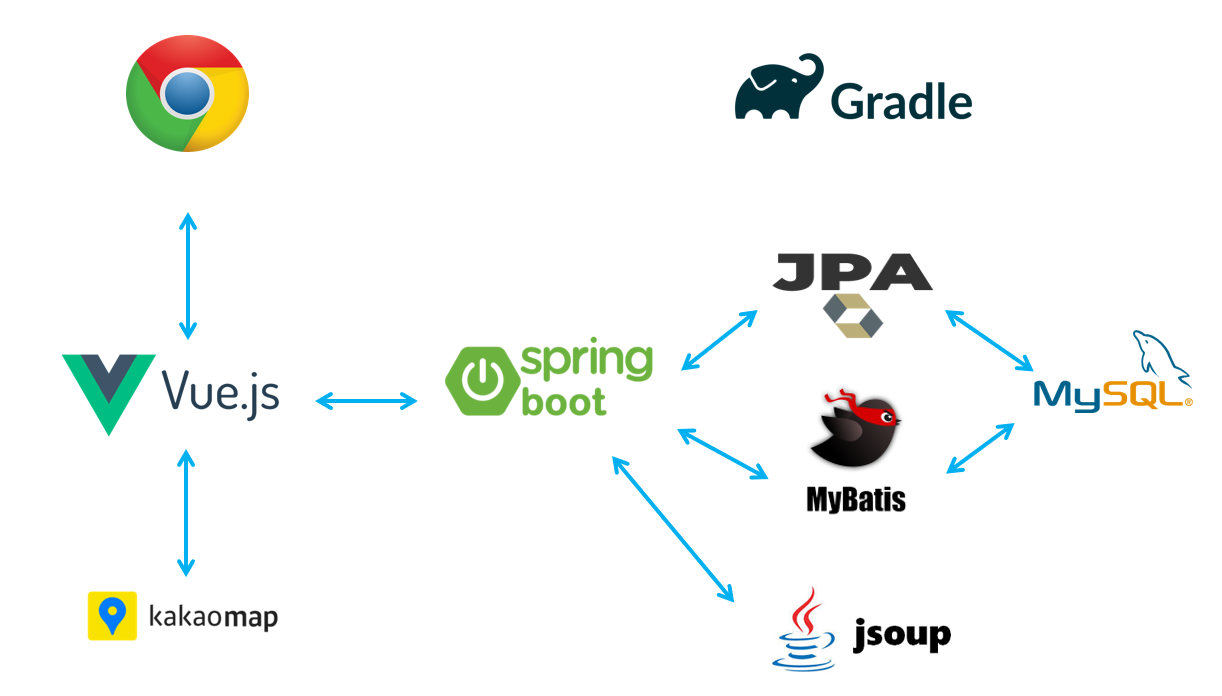
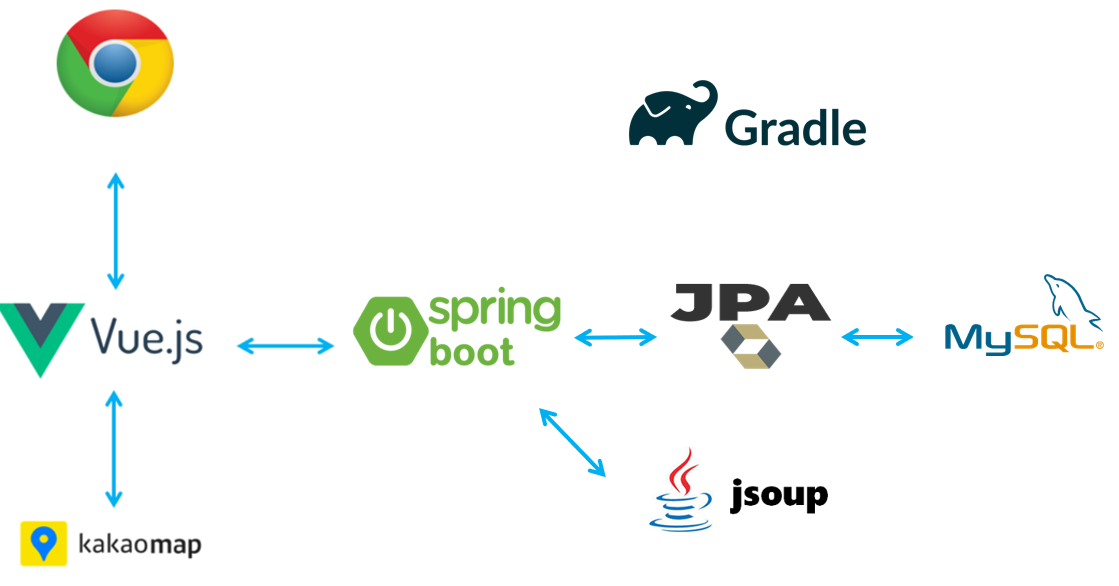
Docs : 아키텍처 수정 및 개발 팀 소개 부분 수정

diff --git a/README.md b/README.md
@@ -27,6 +27,12 @@
 
 <br />
 
+[**🔗 '오늘의 부동산' Back-end 저장소로 바로가기 Click !**](https://github.com/today-real-estate/today-real-estate_back-end.git) 👈
+
+> 새 창 열기 방법 : CTRL+click (on Windows and Linux) | CMD+click (on MacOS)
+
+<br />
+
 <div id="2"></div>
 
 ## 🛠 기술 스택
@@ -51,9 +57,9 @@
 | :--------------------------------------------------------------------------------------------------------------------------: | :-----------------------------------------------------------------------------------------------------------------------------------------------------------------------------------: | :-----------------------------------------------------------------------------------------------------------------------------: |
 |                                                             Java                                                             |                                                                                         Jsoup                                                                                         |                                                           Spring boot                                                           |
 
-| <img src="https://media.vlpt.us/images/wavvy1022/post/d05e49ea-341a-4e6a-80db-ff322533464a/jpa.png" alt="JPA" width="50px" height="50px" /> | <img src="https://i.pinimg.com/originals/0b/11/2c/0b112c6a99631dd3bd98fa9fc91f51f1.png" alt="MyBatis" width="50px" height="50px" /> |
-| :-----------------------------------------------------------------------------------------------------------------------------------------: | :---------------------------------------------------------------------------------------------------------------------------------: |
-|                                                                     JPA                                                                     |                                                               MyBatis                                                               |
+| <img src="https://media.vlpt.us/images/wavvy1022/post/d05e49ea-341a-4e6a-80db-ff322533464a/jpa.png" alt="JPA" width="50px" height="50px" /> |
+| :-----------------------------------------------------------------------------------------------------------------------------------------: |
+|                                                                     JPA                                                                     |
 
 | <img src="https://profilinator.rishav.dev/skills-assets/mysql-original-wordmark.svg" alt="MySQL" width="50px" height="50px" /> |
 | :----------------------------------------------------------------------------------------------------------------------------: |
@@ -77,6 +83,7 @@
 | 최저가 · 최고가 아파트 매매 정보 제공 서비스 |                                                           검색한 지역별 아파트 목록에서의 최저가 · 최고가 매매 정보를 제공합니다.                                                           |
 |      선택한 아파트의 로드뷰 제공 서비스      |                                       선택한 아파트 주변의 카카오 로드뷰를 제공하여 사용자가 아파트 주변의 환경을 확인할 수 있는 서비스를 제공합니다.                                       |
 |        주변 편의시설 정보 제공 서비스        |                                                              은행 · 마트 · 약국 · 주유소 · 카페 · 편의점 정보들을 제공합니다.                                                               |
+|               관심목록 서비스                |                                                  관심목록 등록을 통해 등록한 아파트 매물을 관심목록 페이지에서 한 번에 확인할 수 있습니다.                                                  |
 |               추천 매물 서비스               |                                  랜덤으로 아파트 매물을 추천합니다. (로그인 전)<br />사용자의 최근 검색어를 바탕으로 아파트 매물을 추천합니다. (로그인 후)                                  |
 |             1대1 문의하기 서비스             | 고객센터에 1대1 문의를 할 수 있는 서비스입니다. (수정 및 삭제가 가능합니다.)<br />관리자 아이디로 로그인 시 모든 사용자들의 1대1 문의를 확인할 수 있으며 답글을 남기거나 삭제가 가능합니다. |
 |        오늘의 부동산 뉴스 제공 서비스        |                                                  실시간 네이버 부동산 뉴스 페이지 크롤링을 통해 당일 부동산 뉴스를 사용자에게 제공합니다.                                                   |
@@ -115,6 +122,8 @@
 |                        로그인                        |
 | :--------------------------------------------------: |
 | <img src="./readme_assets/login.gif" alt="로그인" /> |
+
+> 아이디 저장 기능을 제공합니다.
 
 |                                  시 · 구 · 동 옵션 선택을 통한 아파트 매매 정보 검색                                  |
 | :-------------------------------------------------------------------------------------------------------------------: |
@@ -217,10 +226,10 @@
 
 <br />
 
-|  이름  |   역할    |                                                                                                                                                              개발 내용                                                                                                                                                               |
-| :----: | :-------: | :----------------------------------------------------------------------------------------------------------------------------------------------------------------------------------------------------------------------------------------------------------------------------------------------------------------------------------: |
-| 박정환 | Front-end | 지역별 아파트 매매 정보 검색 서비스 개발<br />아파트 상세 정보 제공 서비스 개발<br />최저가 · 최고가 정보 제공 서비스 개발<br />주변 편의시설 정보 제공 서비스 개발<br />추천 매물 서비스 개발<br />1대1 문의하기 서비스<br />오늘의 부동산 뉴스 제공 서비스 개발<br />로그인 및 회원가입 서비스 개발<br />회원정보 수정 서비스 개발 |
-| 진형준 | Back-end  |                                                                                                                                                                 ...                                                                                                                                                                  |
+|  이름  |   역할    |                                                                                                                                                                           개발 내용                                                                                                                                                                            |
+| :----: | :-------: | :------------------------------------------------------------------------------------------------------------------------------------------------------------------------------------------------------------------------------------------------------------------------------------------------------------------------------------------------------------: |
+| 박정환 | Front-end | 지역별 아파트 매매 정보 검색 서비스 개발<br />아파트 상세 정보 제공 서비스 개발<br />최저가 · 최고가 정보 제공 서비스 개발<br />주변 편의시설 정보 제공 서비스 개발<br />추천 매물 서비스 개발<br />관심목록 서비스 개발<br />1대1 문의하기 서비스<br />오늘의 부동산 뉴스 제공 서비스 개발<br />로그인 및 회원가입 서비스 개발<br />회원정보 수정 서비스 개발 |
+| 진형준 | Back-end  |                                                  지역별 아파트 매매 정보 검색 서비스 도메인 개발<br />추천 매물 서비스 도메인 개발<br />관심목록 서비스 도메인 개발<br />1대1 문의 서비스 도메인 개발<br />회원 관련 도메인 개발<br />관심목록 서비스 도메인 개발<br />오늘의 부동산 뉴스 크롤링<br />DB 설계                                                  |
 
 <br />
 
@@ -277,3 +286,5 @@ $ git clone https://github.com/today-real-estate/today-real-estate_back-end.git
 ```bash
 $ cd today-real-estate_back-end
 ```
+
+3. **main 메서드 실행하기**
